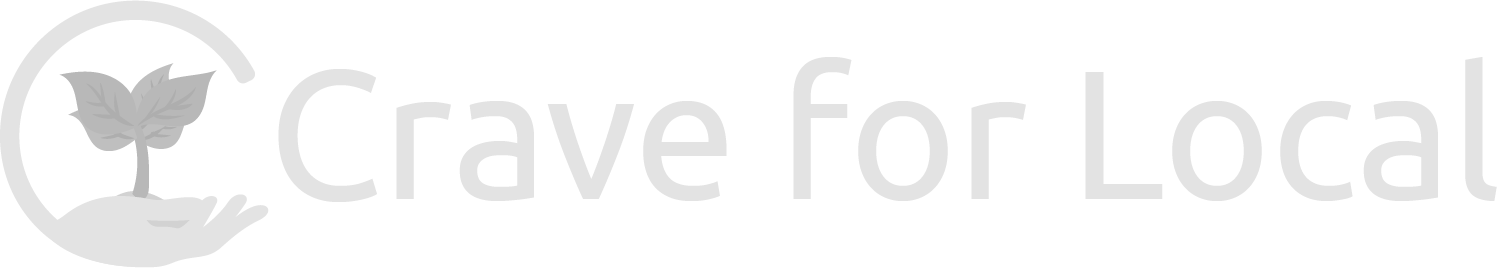
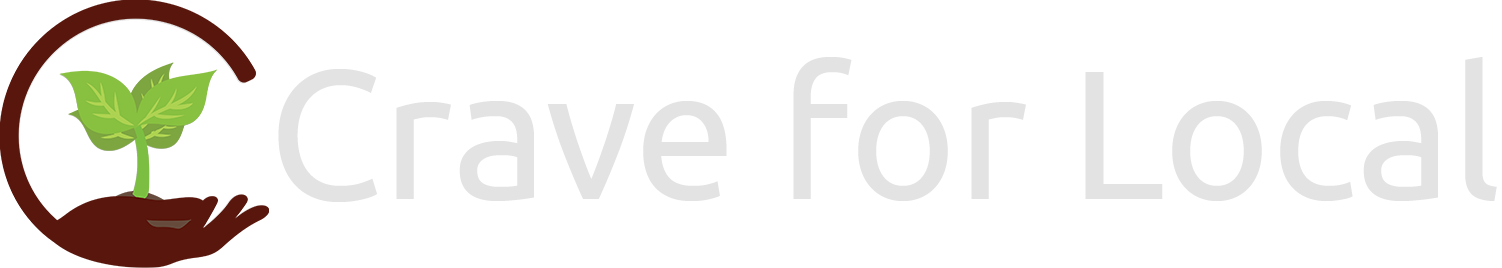
color fixes

Changed region(s): [[0.0, 0.0, 0.1838, 1.0]]

diff --git a/index.html b/index.html
@@ -58,7 +58,7 @@
     </header>
     <div class="hero">
         <div class="mainImage">
-            <img src="Assets/mainPhoto2.png" alt="Ashhar Ali Ahmed">
+            <img src="Assets/mainPhoto1.png" alt="Ashhar Ali Ahmed">
         </div>
         <div class="heroText">
             <br><h1><span id="intro">Hello I'm</span><br>Ashhar Ali Ahmed</h1><p>I bring ideas to life through Code & Creativity. I'm a front-end developer and designer dedicated to turning creative concepts into captivating digital realities.</p><br><br>
@@ -80,10 +80,10 @@
                 <img src="Assets/skit.png" alt="" loading="lazy">
                 </a>
                 <a style="display: contents;" href="http://www.homeofspices.com/" target="_blank">
-                    <img class="square" src="Assets/HOS.png" alt="" loading="lazy">
+                    <img class="square" src="Assets/HOScolored.png" alt="" loading="lazy">
                 </a> 
                 <a style="display: contents;">
-                    <img class="square" src="Assets/corpoeats.svg" alt="" loading="lazy">
+                    <img class="square" src="Assets/copoeatsColored.svg" alt="" loading="lazy">
                 </a>            
             </div>
             <!-- <div class="slider2">

diff --git a/AshharStyle.css b/AshharStyle.css
@@ -87,9 +87,9 @@ li {
  text-shadow: 0px 0px 8px #161c1e;
  transition: 0.2s cubic-bezier(.43,.28,0,1.01) ;
 }
+
 .resume.nav {
     background-color: var(--bgBolor);
-
 }
 li:not(.slash, .resume)::after {
     content:'';
@@ -145,13 +145,15 @@ li:not(.slash):hover {
 .mainImage img {
 width: 330px;
 transition: 0.4s cubic-bezier(.43,.28,0,1.01);
+filter: hue-rotate(180deg); 
+
 
 }
 
 
 .mainImage img:hover {
-    content: url("Assets/mainPhoto1.png");
-transform: scale(1.03);
+    filter: hue-rotate(0deg); 
+    transform: scale(1.03);
 cursor: pointer;
 }
 .heroText {
@@ -202,9 +204,18 @@ cursor: pointer;
         height: 130%;
     }
 .slider img:not(.moreHeight, .square), .slide2 img:not(.moreHeight, .square){
-
     height: 100%
 }
+.slider img {
+    /* filter: saturate(0%);
+    filter: hue-rotate(90deg); */
+
+  }
+.slider img:hover {
+    /* filter: saturate(100%); */
+    scale: 1.1;
+  }
+
 .slider2 {
     display: none;
 }
